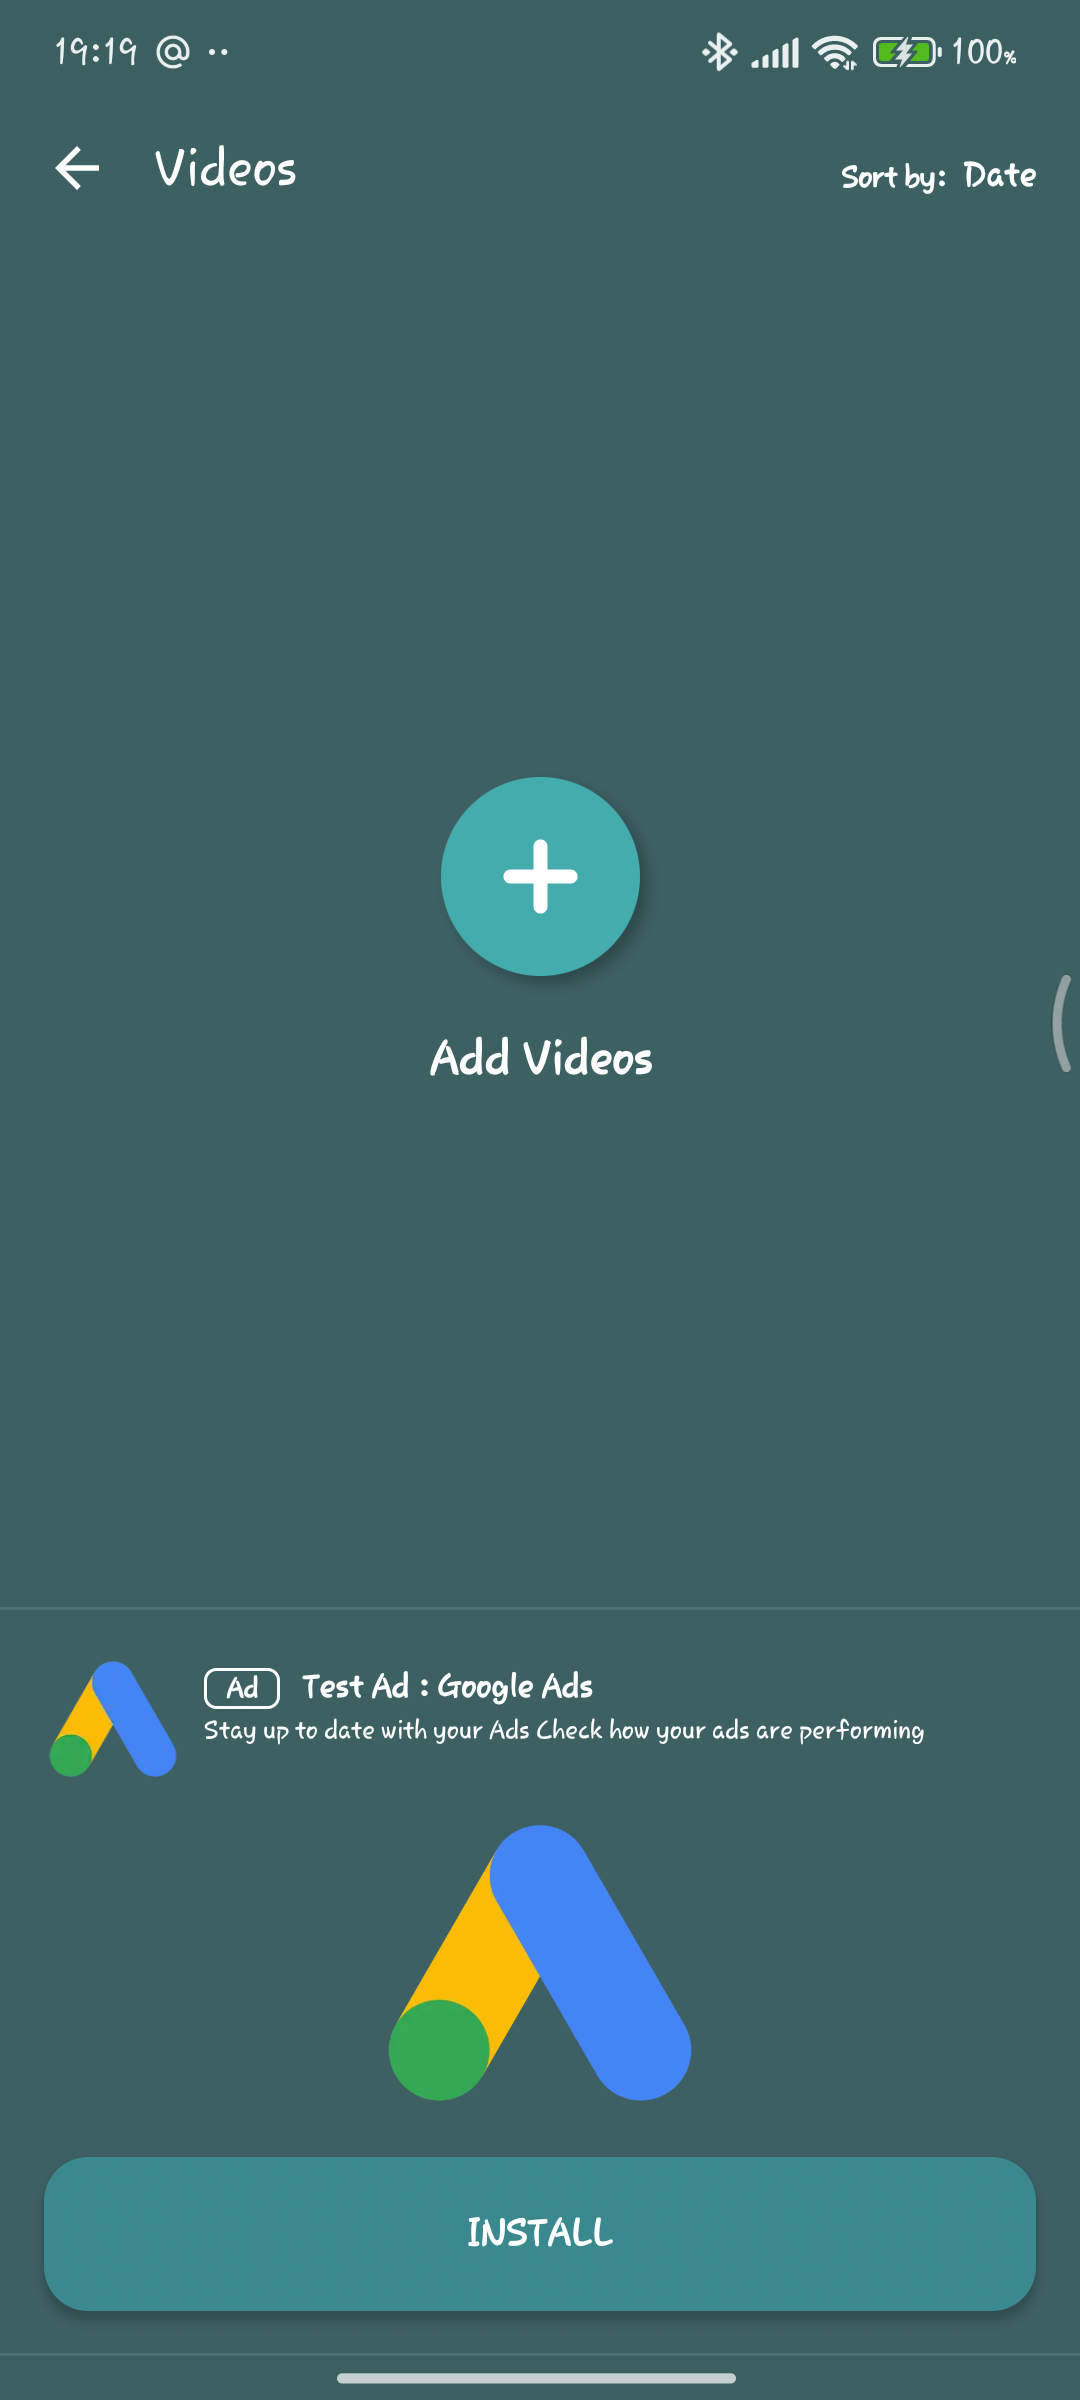
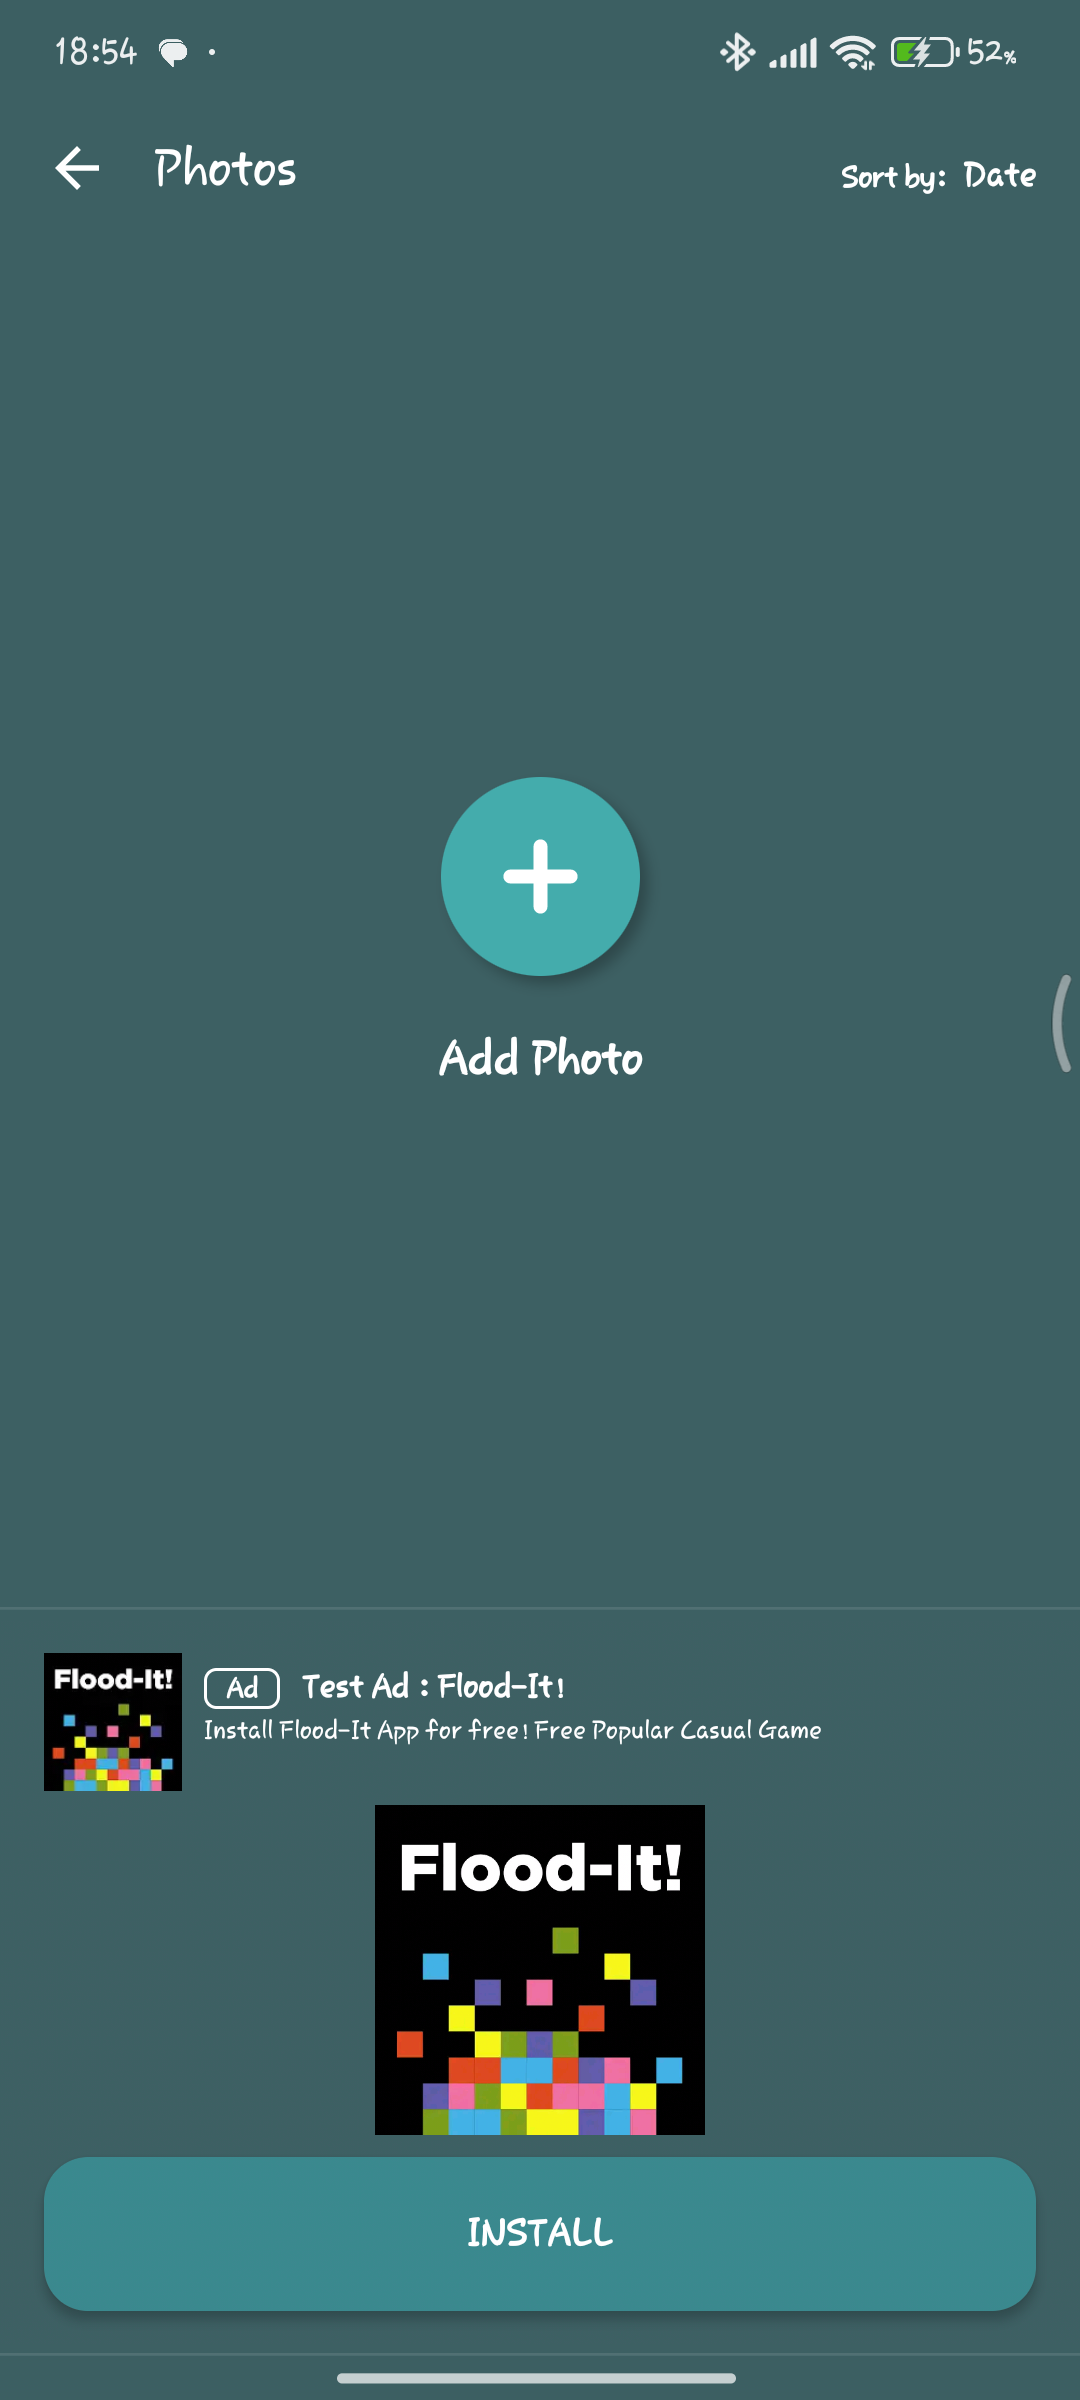
Screenshot

diff --git a/composeApp/src/commonMain/kotlin/com/next/level/solutions/calculator/fb/mp/ui/screen/hidden/files/conposable/Files.kt b/composeApp/src/commonMain/kotlin/com/next/level/solutions/calculator/fb/mp/ui/screen/hidden/files/conposable/Files.kt
@@ -24,24 +24,23 @@ import androidx.compose.ui.Alignment
 import androidx.compose.ui.Modifier
 import androidx.compose.ui.unit.dp
 import calculator_fileblocking.composeapp.generated.resources.Res
-import calculator_fileblocking.composeapp.generated.resources.add_file
+import calculator_fileblocking.composeapp.generated.resources.add_files
 import calculator_fileblocking.composeapp.generated.resources.add_new_notes
-import calculator_fileblocking.composeapp.generated.resources.add_photo
+import calculator_fileblocking.composeapp.generated.resources.add_photos
 import calculator_fileblocking.composeapp.generated.resources.add_videos
 import calculator_fileblocking.composeapp.generated.resources.delete
 import calculator_fileblocking.composeapp.generated.resources.empty
 import calculator_fileblocking.composeapp.generated.resources.restore
 import calculator_fileblocking.composeapp.generated.resources.visible
-import com.magiccalculatorlock.ui.screens.hidden.files.conposable.EmptyList
 import com.next.level.solutions.calculator.fb.mp.entity.ui.FileDataUI
 import com.next.level.solutions.calculator.fb.mp.entity.ui.PhotoModelUI
 import com.next.level.solutions.calculator.fb.mp.ui.composable.action.button.ActionButton
 import com.next.level.solutions.calculator.fb.mp.ui.composable.action.button.ButtonColors
 import com.next.level.solutions.calculator.fb.mp.ui.composable.action.button.IconSize
 import com.next.level.solutions.calculator.fb.mp.ui.composable.file.picker.FilePicker
-import com.next.level.solutions.calculator.fb.mp.ui.composable.file.picker.PickerType
 import com.next.level.solutions.calculator.fb.mp.ui.composable.file.picker.PickerAction
 import com.next.level.solutions.calculator.fb.mp.ui.composable.file.picker.PickerState
+import com.next.level.solutions.calculator.fb.mp.ui.composable.file.picker.PickerType
 import com.next.level.solutions.calculator.fb.mp.ui.composable.file.picker.rememberFilePickerState
 import com.next.level.solutions.calculator.fb.mp.ui.icons.MagicIcons
 import com.next.level.solutions.calculator.fb.mp.ui.icons.all.Delete
@@ -191,8 +190,8 @@ private fun AddButton(
       text = stringResource(
         resource = when (fileType) {
           PickerType.Video -> Res.string.add_videos
-          PickerType.Photo -> Res.string.add_photo
-          PickerType.File -> Res.string.add_file
+          PickerType.Photo -> Res.string.add_photos
+          PickerType.File -> Res.string.add_files
           PickerType.Note -> Res.string.add_new_notes
           else -> Res.string.empty
         }

diff --git a/composeApp/src/commonMain/kotlin/com/next/level/solutions/calculator/fb/mp/ui/screen/hidden/files/conposable/EmptyList.kt b/composeApp/src/commonMain/kotlin/com/next/level/solutions/calculator/fb/mp/ui/screen/hidden/files/conposable/EmptyList.kt
@@ -1,4 +1,4 @@
-package com.magiccalculatorlock.ui.screens.hidden.files.conposable
+package com.next.level.solutions.calculator.fb.mp.ui.screen.hidden.files.conposable
 
 import androidx.compose.foundation.background
 import androidx.compose.foundation.clickable
@@ -16,9 +16,9 @@ import androidx.compose.ui.draw.clip
 import androidx.compose.ui.graphics.Color
 import androidx.compose.ui.unit.dp
 import calculator_fileblocking.composeapp.generated.resources.Res
-import calculator_fileblocking.composeapp.generated.resources.add_file
+import calculator_fileblocking.composeapp.generated.resources.add_files
 import calculator_fileblocking.composeapp.generated.resources.add_new_notes
-import calculator_fileblocking.composeapp.generated.resources.add_photo
+import calculator_fileblocking.composeapp.generated.resources.add_photos
 import calculator_fileblocking.composeapp.generated.resources.add_videos
 import calculator_fileblocking.composeapp.generated.resources.empty
 import com.adamglin.composeshadow.dropShadow
@@ -100,8 +100,8 @@ private fun ColumnScope.Content(
         resource = when (fileType) {
           PickerType.Trash -> Res.string.empty
           PickerType.Video -> Res.string.add_videos
-          PickerType.Photo -> Res.string.add_photo
-          PickerType.File -> Res.string.add_file
+          PickerType.Photo -> Res.string.add_photos
+          PickerType.File -> Res.string.add_files
           PickerType.Note -> Res.string.add_new_notes
         }
       ),

diff --git a/composeApp/src/commonMain/kotlin/com/next/level/solutions/calculator/fb/mp/ui/screen/hidden/files/HiddenFilesContent.kt b/composeApp/src/commonMain/kotlin/com/next/level/solutions/calculator/fb/mp/ui/screen/hidden/files/HiddenFilesContent.kt
@@ -35,7 +35,7 @@ import androidx.compose.ui.unit.dp
 import androidx.lifecycle.compose.collectAsStateWithLifecycle
 import calculator_fileblocking.composeapp.generated.resources.Res
 import calculator_fileblocking.composeapp.generated.resources.date
-import calculator_fileblocking.composeapp.generated.resources.file
+import calculator_fileblocking.composeapp.generated.resources.files
 import calculator_fileblocking.composeapp.generated.resources.name
 import calculator_fileblocking.composeapp.generated.resources.photos
 import calculator_fileblocking.composeapp.generated.resources.recycle_bin
@@ -295,7 +295,7 @@ private fun Content(
           Text(
             text = stringResource(
               resource = when (fileType) {
-                PickerType.File -> Res.string.file
+                PickerType.File -> Res.string.files
                 PickerType.Photo -> Res.string.photos
                 PickerType.Trash -> Res.string.recycle_bin
                 PickerType.Video -> Res.string.videos

diff --git a/composeApp/src/commonMain/kotlin/com/next/level/solutions/calculator/fb/mp/ui/screen/home/HomeContent.kt b/composeApp/src/commonMain/kotlin/com/next/level/solutions/calculator/fb/mp/ui/screen/home/HomeContent.kt
@@ -24,7 +24,7 @@ import androidx.compose.ui.unit.dp
 import calculator_fileblocking.composeapp.generated.resources.Res
 import calculator_fileblocking.composeapp.generated.resources.browser
 import calculator_fileblocking.composeapp.generated.resources.calculator_lock
-import calculator_fileblocking.composeapp.generated.resources.file
+import calculator_fileblocking.composeapp.generated.resources.files
 import calculator_fileblocking.composeapp.generated.resources.notes
 import calculator_fileblocking.composeapp.generated.resources.photos
 import calculator_fileblocking.composeapp.generated.resources.trash
@@ -136,7 +136,7 @@ private fun Content(
 
       RowCard(
         icon = MagicIcons.All.Folder,
-        text = Res.string.file,
+        text = Res.string.files,
         action = { component?.action(HomeComponent.Action.Files) }
       )
     }

diff --git a/composeApp/src/commonMain/kotlin/com/next/level/solutions/calculator/fb/mp/ui/screen/settings/SettingsContent.kt b/composeApp/src/commonMain/kotlin/com/next/level/solutions/calculator/fb/mp/ui/screen/settings/SettingsContent.kt
@@ -24,7 +24,7 @@ import androidx.compose.ui.unit.dp
 import calculator_fileblocking.composeapp.generated.resources.Res
 import calculator_fileblocking.composeapp.generated.resources.settings
 import com.arkivanov.decompose.extensions.compose.subscribeAsState
-import com.magiccalculatorlock.ui.screens.settings.composable.SettingsSection
+import com.next.level.solutions.calculator.fb.mp.ui.screen.settings.composable.SettingsSection
 import com.next.level.solutions.calculator.fb.mp.ui.screen.settings.composable.TipToResetPassword
 import com.next.level.solutions.calculator.fb.mp.entity.ui.extra.SettingsType
 import com.next.level.solutions.calculator.fb.mp.ui.composable.action.button.ActionButton

diff --git a/composeApp/src/androidMain/kotlin/com/next/level/solutions/calculator/fb/mp/ui/preview/HiddenFilesPreview.kt b/composeApp/src/androidMain/kotlin/com/next/level/solutions/calculator/fb/mp/ui/preview/HiddenFilesPreview.kt
@@ -2,7 +2,7 @@ package com.next.level.solutions.calculator.fb.mp.ui.preview
 
 import androidx.compose.runtime.Composable
 import androidx.compose.ui.tooling.preview.PreviewLightDark
-import com.magiccalculatorlock.ui.screens.hidden.files.conposable.EmptyListPreview
+import com.next.level.solutions.calculator.fb.mp.ui.screen.hidden.files.conposable.EmptyListPreview
 import com.next.level.solutions.calculator.fb.mp.ui.composable.file.picker.PickerType
 import com.next.level.solutions.calculator.fb.mp.ui.composable.file.picker.PickerAction
 import com.next.level.solutions.calculator.fb.mp.ui.screen.hidden.files.HiddenFilesContentPreview

diff --git a/composeApp/src/commonMain/kotlin/com/next/level/solutions/calculator/fb/mp/ui/screen/settings/composable/SettingsSection.kt b/composeApp/src/commonMain/kotlin/com/next/level/solutions/calculator/fb/mp/ui/screen/settings/composable/SettingsSection.kt
@@ -1,4 +1,4 @@
-package com.magiccalculatorlock.ui.screens.settings.composable
+package com.next.level.solutions.calculator.fb.mp.ui.screen.settings.composable
 
 import androidx.compose.foundation.layout.fillMaxWidth
 import androidx.compose.foundation.layout.padding

diff --git a/README.md b/README.md
@@ -26,18 +26,19 @@ functionality.
 
 <img src="./screenshot/Screenshot_20250321_192448.png" width="240" alt=""/>
 
-### Features
+### Features (Photos, Videos, Files)
 
-<img src="./screenshot/Screenshot_20250321_192401.png" width="240" alt=""/> <img src="./screenshot/Screenshot_20250321_192438.png" width="240" alt=""/> <img src="./screenshot/Screenshot_20250321_192434.png" width="240" alt=""/>
-<img src="./screenshot/Screenshot_20250321_192416.png" width="240" alt=""/> <img src="./screenshot/Screenshot_20250321_192445.png" width="240" alt=""/> 
+<img src="./screenshot/Screenshot_20250321_192401.png" width="240" alt=""/> <img src="./screenshot/Screenshot_20250323_185453.png" width="240" alt=""/> <img src="./screenshot/Screenshot_20250321_192438.png" width="240" alt=""/>
+<img src="./screenshot/Screenshot_20250321_192434.png" width="240" alt=""/> <img src="./screenshot/Screenshot_20250321_192445.png" width="240" alt=""/> <img src="./screenshot/Screenshot_20250323_191049.png" width="240" alt=""/> 
+<img src="./screenshot/Screenshot_20250323_191123.png" width="240" alt=""/> 
 
 ### Notes
 
-<img src="./screenshot/Screenshot_20250321_192410.png" width="240" alt=""/>
+<img src="./screenshot/Screenshot_20250323_190700.png" width="240" alt=""/> <img src="./screenshot/Screenshot_20250323_190726.png" width="240" alt=""/> <img src="./screenshot/Screenshot_20250321_192410.png" width="240" alt=""/>
 
 ### Browser
 
-<img src="./screenshot/Screenshot_20250321_192421.png" width="240" alt=""/>
+<img src="./screenshot/Screenshot_20250321_192421.png" width="240" alt=""/> <img src="./screenshot/Screenshot_20250323_191312.png" width="240" alt=""/>
 
 ### Settings
 
